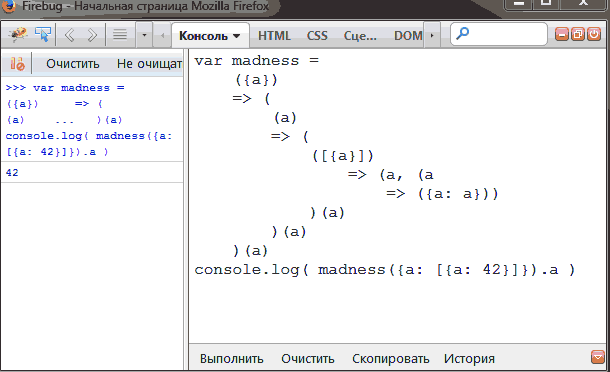
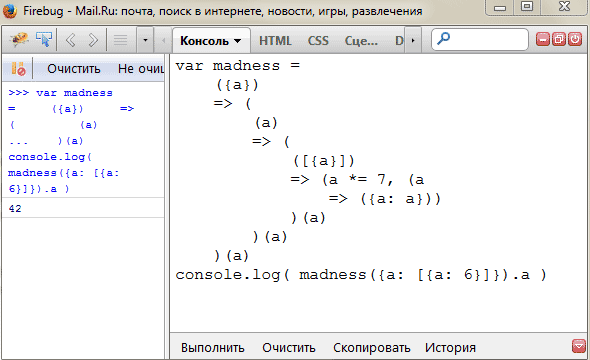
* 'about es6 arrow function' + new images

diff --git a/RU_ru/es6 arrow functions/Readme.md b/RU_ru/es6 arrow functions/Readme.md
@@ -1,17 +1,19 @@
-Подробнее про Стрелочные функции (Arrow functions) в ECMAScript 6
+Стрелочные функции (Arrow functions) в ECMAScript 6
 
-![Arrow functions](http://habrastorage.org/files/ddd/d73/834/dddd73834029457f81df017cf2c25f47.png "Arrow functions")
+![Arrow functions madness](http://habrastorage.org/files/b2f/e49/a40/b2fe49a40695402d8cf3c4ff016df5ba.png "Arrow functions madness")
 
-Компиляция из вольного перевода статьи [Understanding ECMAScript 6 arrow functions](http://www.nczonline.net/blog/2013/09/10/understanding-ecmascript-6-arrow-functions/) и чтения последнего черновика [спецификации](http://people.mozilla.org/~jorendorff/es6-draft.html#sec-arrow-function-definitions) (January 20, 2014 Draft Rev 22).
+Компиляция из вольного перевода статьи [Understanding ECMAScript 6 arrow functions](http://www.nczonline.net/blog/2013/09/10/understanding-ecmascript-6-arrow-functions/)
+и чтения последнего черновика [спецификации](http://people.mozilla.org/~jorendorff/es6-draft.html#sec-arrow-function-definitions)
+(January 20, 2014 Draft Rev 22).
 
 Одной из самых интересный частей нового стандарта ECMAScript 6 являются стрелочные функции.
 Стрелочные функции, как и понятно по названию определяются новым синтаксисом, который использует стрелку `=>`.
-Однако стрелочные функции отличаются от традиционных функций в некоторых моментах:
+Однако, помимо отличного синтаксиса, стрелочные функции отличаются от традиционных функций и в некоторых моментах:
 * Лексическое связывание - значения _специальных переменных_ **this**, **super** и **arguments**  определяются не тем,
 как стрелочные функции были вызваны, а тем, как они были созданы.
-* Стрелочные функции не могут быть использованы как конструктор и кидают ошибку при использовании с ключевым словом **new**
 * Неизменяемые **this**, **super** и **arguments** - Значения этих переменных внутри стрелочные функции остаются неизменными
 на протяжении всего жизненного цикла функции
+* Стрелочные функции не могут быть использованы как конструктор и кидают ошибку при использовании с оператором **new**
 
 Было несколько причин для введения этих отличий. Первоочередная - это то, что связывание (binding) используется довольно
 часто в javascript. Очень легко потерять нужное значение **this** при использовании традиционных функций, что может
@@ -53,7 +55,7 @@ var sum = () => 1 + 2;
 // эквивалент
 var sum = function() { return 1 + 2; };
 ```
-Также, вы можете воспользоваться синтаксисом традиционных функций для тела стрелочной функции, когда оно содержит более
+Вы можете воспользоваться синтаксисом традиционных функций для тела стрелочной функции, когда оно содержит более
 одного выражения - т.е. обернуть функцию в фигурные скобки и добавить ключевое слово **return**:
 ```javascript
 var sum = (num1, num2) => { return num1 + num2; }
@@ -70,11 +72,16 @@ var getTempItem = id => ({ id: id, name: "Temp" });
 // эквивалент
 var getTempItem = function(id) { return { id: id, name: "Temp" } };
 ```
-Забор литерала объекта в круглые скобки означает, указывает парсеру, что фигурные скобки это не начало традиционного
+Забор литерала объекта в круглые скобки указывает парсеру, что фигурные скобки это не начало традиционного
 синтаксиса для тела функции, а начало литерала.
 
-Т.к. "собственный" объект **arguments** не доступен внутри стрелочной функции, для стрелочных функций с переменным числом
-параметров нужно использовать **rest** паттерн из _шаблонов деструктуризации_. Пример:
+Т.к. "собственный" объект **arguments** не доступен внутри стрелочной функции (значение **arguments** лексически
+связано со значением **arguments** традиционной функции внутри которой стрелочная функция была объявлена),
+для стрелочных функций с переменным числом параметров нужно использовать **rest** паттерн из _шаблонов деструктуризации_
+(их мы не разбираем в рамках данной статьи - вы можете почитать про них в статье
+[http://habrahabr.ru/post/175371/](Обзор ECMAScript 6, следующей версии JavaScript), хотя информация из этой статьи
+частично устарела).
+Пример:
 ```javascript
 var getTempItems = (...rest) => rest;
 // эквивалент
@@ -87,13 +94,13 @@ var a = ({a}) => a;
 var b = ([b]) => b;
 ```
 
-## Использование
+## Использование стрелочных функций
 
 Одним из частых сценариев в JavaScript является установка правильного значения **this** внутри функции (связывание).
 Поскольку значение **this** может быть изменено, в зависимости от контекста исполнения функции, возможно ошибочно
-действовать на один объект, когда вы имели ввиду совершенно другой. Посмотрите на следующий пример:
+воздействовать на один объект, когда вы имели ввиду совершенно другой. Посмотрите на следующий пример:
 ```javascript
-var PageHandler = {
+var pageHandler = {
     id: "123456"
     , init: function() {
         document.addEventListener("click", function(event) {
@@ -103,16 +110,16 @@ var PageHandler = {
     , doSomething: function(type) { console.log("Handling " + type  + " for " + this.id) }
 };
 ```
-В приведённом коже, объект `PageHandler` должен обрабатывать сообщения на странице. Метод `init()` навешивает обработчик
-на нужное событие, который внутри себя вызывает `this.doSomething()`. Однако, код сработает неправильно. Ссылка на
+В приведённом коже, объект `pageHandler` должен обрабатывать клики на странице. Метод `init()` навешивает обработчик
+на нужное событие, который внутри себя вызывает `this.doSomething()`. Однако, код отработает неправильно. Ссылка на
 `this.doSomething()` не валидна, поскольку **this** указывает на объект `document` внутри обработчика события вместо
-планируемого `PageHandler`. При попытке выполнить этот код, вы получите ошибку, поскольку объект `document` не имеет
+планируемого `pageHandler`. При попытке выполнить этот код, вы получите ошибку, поскольку объект `document` не имеет
 метода `doSomething`.
 
-Вы можете завязать значение **this** на объекте `PageHandler` используя `handleEvent` или вызвав у функции стандартный
+Вы можете завязать значение **this** на объекте `pageHandler` используя `handleEvent` или вызвав у функции стандартный
 метод `bind()`:
 ```javascript
-var PageHandler = {
+var pageHandler = {
     id: "123456"
     , init: function() {
         document.addEventListener("click", (function(event) {
@@ -123,14 +130,14 @@ var PageHandler = {
 };
 ```
 Теперь код будет работать так, как и задумывалось, но выглядит более громоздко. Кроме того, вызывая `bind(this)`
-вы каждый раз создаёте новую функцию, значение **this** которой завязано на значении `PageHandler`, но зато код работает
+вы каждый раз создаёте новую функцию, значение **this** которой завязано на значении `pageHandler`, но зато код работает
 так, как вы задумывали.
 
 Стрелочные функции решают проблему более элегантным способом, поскольку используют лексическое связывание значения
-**this** (также **super** и **arguments**) и его значение определяется значением **this** в том месте, где стрелочная функция
+**this** (а также **super** и **arguments**) и его значение определяется значением **this** в том месте, где стрелочная функция
 была создана. Например:
 ```javascript
-var PageHandler = {
+var pageHandler = {
     id: "123456"
     , init: function() {
         document.addEventListener("click", event => this.doSomething(event.type));
@@ -145,7 +152,7 @@ var PageHandler = {
 
 Кроме того, пример выше ещё и эффективнее вызова `bind()`, потому что для браузера он аналогичен
 ```javascript
-var PageHandler = {
+var pageHandler = {
     id: "123456"
     , init: function() {
 		var self = this;
@@ -166,9 +173,12 @@ var obj = {
 	, concatenate: function(a, b){ return a + "|" + b }
 	, intersection: function() {
 		return this.arr1.reduce( (sum, v1) => 
-			this.arr2.reduce( (sum, v2) => (sum.push( this.concatenate( v1, v2 ) ),sum), sum )
-			, []
-		)
+			this.arr2.reduce( (sum, v2) => {
+				sum.push( this.concatenate( v1, v2 ) )
+				return sum;
+			}
+			, sum )
+		, [] )
 	}
 };
 var arrSum = obj.intersection();
@@ -182,14 +192,14 @@ var result = values.sort(function(a, b) { return a - b });
 ```javascript
 var result = values.sort((a, b) => a - b);
 ```
-Использование таких методов как массивные `sort()`, `map()`, `reduce()` и т.д., может быть упрошено с использование
+Использование таких методов как массивные `sort()`, `map()`, `reduce()` и т.д., может быть упрошено с использованием
 короткого синтаксиса стрелочной функции.
 
 ## Особенности стрелочных функций
 
 Несмотря на то, что стрелочные функции отличаются от традиционных функций, у них есть общие черты:
-* оператор `typeof` вернёт "function" для стрелочной функции
-* стрелочная функция также экземпляр "класса" Function, поэтому `instanceof` сработает также как и с традиционной функцией
+* Оператор `typeof` вернёт "function" для стрелочной функции
+* Стрелочная функция также экземпляр "класса" Function, поэтому `instanceof` сработает также как и с традиционной функцией
 * Вы всё ещё можете использовать методы `call()`, `apply()`, и `bind()`, однако помните, что они не будут влиять на
 значение **this**
 * Вы можете использовать метод `toMethod()`, однако он не будет менять значение **super**
@@ -199,12 +209,12 @@ var result = values.sort((a, b) => a - b);
 
 ## Итог
 
-Стрелочные функции это одна из интереснейших нововведений в ECMAScript 6, которая имея краткий синтаксис определения
+Стрелочные функции это одно из интереснейших нововведений в ECMAScript 6, которое, имея краткий синтаксис определения,
 упростит передачу функций в качестве значения параметра другой функции. А лексическое связывание закроет один из самых
 больших источников боли и разочарования для разработчиков, а так же улучшит производительность за счёт оптимизации на
-уровне движка.
+уровне js-движка.
+
+![Madness in FF](http://habrastorage.org/files/5c2/f4a/9e2/5c2f4a9e241148508eb78557063afb46.png "Madness in FF")
 
 Если вы хотите попробовать стрелочные функции, вы можете выполнить примеры выше в консоли Firefox, который на данный
 момент (02.2014 FF28) почти полноценно поддерживает стрелочные функции (FF28 неправильно вычисляет значение **arguments**).
-
-![This is madness](http://habrastorage.org/files/e04/e85/4fd/e04e854fd7c945edb30c8790f46aae04.png "This is madness")
